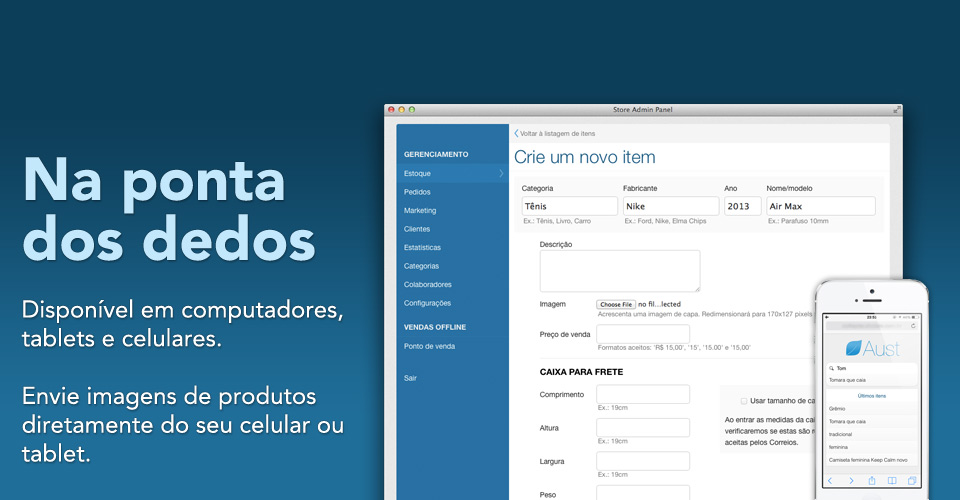
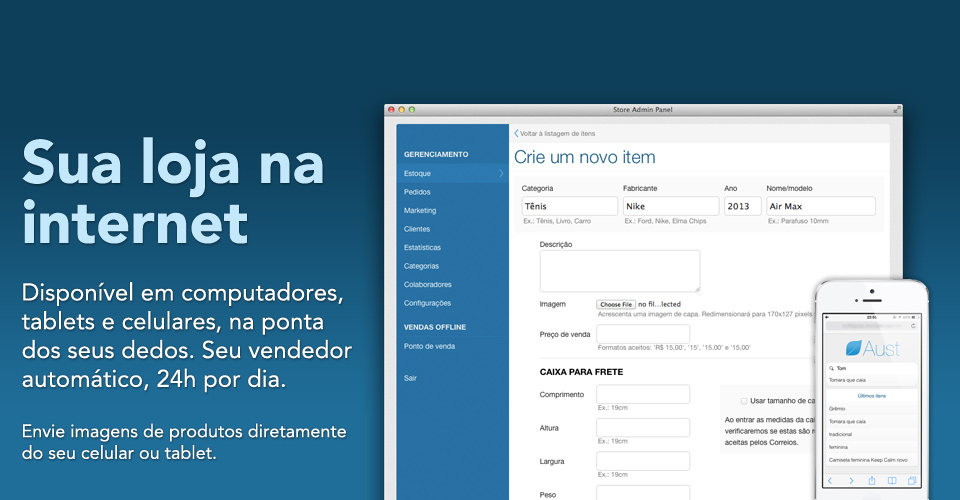
[49640099] Final version of the marketing page

Changed region(s): [[0.0, 0.57, 0.375, 0.93], [0.0, 0.27, 0.3438, 0.54]]

diff --git a/app/assets/stylesheets/marketing/style.sass b/app/assets/stylesheets/marketing/style.sass
@@ -13,6 +13,7 @@ body
   background: #efefef
   background: #1a7bb0
   background: #0A3C57
+  background: image-url('marketing/body_bg_top.jpg') repeat-x #f7f7f7
   color: #222
   font-size: 87%
   font-family: "Helvetica Neue", "Lucida Grande", "Lucida Sans", "Verdana", sans-serif
@@ -109,9 +110,9 @@ li
 
 .central_body
   width: 960px
-  box-shadow: 0px 0px 5px rgba(0, 0, 0, 0.2)
-  margin: 0 auto
-  background: red
+  padding-bottom: 5px
+  //box-shadow: 0px 0px 5px rgba(0, 0, 0, 0.2)
+  margin: 0 auto 0 auto
 
 #header
   width: 100%
@@ -135,7 +136,7 @@ li
     p
       font-size: 0.8em
       left: 18px
-      top: -1px
+      top: -2px
       position: relative
       color: #777
 
@@ -149,7 +150,7 @@ li
 
     li
       float: left
-      padding: 20px 0 0 0
+      padding: 14px 0 0 0
     a
       padding: 5px 12px
       margin: 0 5px
@@ -157,7 +158,7 @@ li
       font-size: 1.4em
       &:hover
         text-decoration: none
-        background: #fbfbfb
+        background: #f3f3f3
         border-radius: 50px
 
 #merchan
@@ -262,19 +263,32 @@ a.btn
 #main
   margin: 0 auto
   margin-bottom: 25px
-  padding-top: 15px
+  padding-top: 0
   width: 960px
   display: table
   background: white
 
   .main_container
-    margin: 10px
+    margin: 30px 0
+    width: 960px
     display: table
 
   .screenshot
+    width: 900px
     padding: 0 30px 0 30px
     img.admin
       width: 400px
+
+  .nfe
+    width: 900px
+    border-top: 1px solid #eee
+    padding: 30px 30px 0 30px
+    .image, .text
+      float: left
+    .image
+      width: 100px
+    .text
+      margin-top: 10px
 
   .features
     padding: 15px 10px
@@ -299,7 +313,41 @@ a.btn
         padding: 0 3px
         font-size: 1em
   .beta
+    width: 900px
+    border-top: 1px solid #eee
     padding: 30px
+    margin-bottom: 0
+    color: white
+    background: image-url("marketing/beta_bg.jpg") repeat-x #295e84
 
-    h3
+    h2
       font-weight: normal
+      color: white
+
+    div.email_field, div.submit
+      float: left
+
+    div.email_field
+      width: 615px
+      label
+        margin-top: 10px
+        font-size: 1.6em
+        width: 170px
+      input
+        height: 42px
+        width: 400px
+        margin: 0 0 0 8px
+        padding: 0 10px
+        font-size: 1.6em
+      .hint
+        margin: 0 0 0 185px
+        font-size: 0.8em
+        color: #ddd
+
+    input.button
+      background: image-url("marketing/beta_submit.png") no-repeat
+      height: 44px
+      width: 159px
+      border: 0
+      font-size: 1.8em
+      color: white

diff --git a/spec/acceptance/subdomain_redirections_acceptance_spec.rb b/spec/acceptance/subdomain_redirections_acceptance_spec.rb
@@ -3,42 +3,41 @@ require 'acceptance_spec_helper'
 
 feature "Store's front-page" do
   before do
-    @company = FactoryGirl.create(:company, handle: "company", domain: "petshop.com")
-    switch_to_main_domain
+    @company = FactoryGirl.create(:company, handle: "company")
   end
 
-  describe "using a explicit subdomain" do
-    context "Existing company" do
-      scenario "As a customer, I access a specific store" do
-        switch_to_subdomain("company")
-        visit root_path
-        page.should have_content(@company.name)
-      end
+  context "Existing company" do
+    scenario "As a customer, I access a specific store" do
+      switch_to_subdomain("company")
+      visit root_path
+      page.should have_content(@company.name)
+      current_path.should == "/"
     end
+  end
 
-    context "Inexistent company" do
+  context "Inexistent company" do
+    context "Inexistent subdomain" do
       scenario "As a customer, I'm redirected to the marketing page" do
         switch_to_subdomain("something")
         visit root_path
-        current_path.should == marketing_root_path(subdomain: false)
+        current_path.should == root_path(subdomain: false)
+      page.should have_selector ".marketing_page"
       end
     end
   end
 
-  describe "not entering a subdomain" do
-    it "goes to the marketing page" do
-      visit root_path(subdomain: false)
-      current_path.should == marketing_root_path(subdomain: false)
-    end
-  end
-
-  describe "entering the company's own domain" do
-    it "goes to the company page" do
-      Capybara.app_host = "http://petshop.com"
-      Capybara.default_host = "http://petshop.com"
+  context "Accessing the Marketing page manually" do
+    scenario "As a customer store.com, I go to the marketing page" do
       visit root_path(subdomain: false)
       current_path.should == root_path(subdomain: false)
-      page.should have_content(@company.name)
+      page.should have_selector ".marketing_page"
+    end
+
+    scenario "As a customer www.store.com, I go to the marketing page" do
+      switch_to_subdomain("www")
+      visit root_path
+      current_path.should == root_path(subdomain: "www")
+      page.should have_selector ".marketing_page"
     end
   end
 end

diff --git a/config/deploy/staging.rb b/config/deploy/staging.rb
@@ -3,7 +3,7 @@ require 'bundler/capistrano'
 
 set :deploy_to, "/var/rails/#{application}"
 set :rails_env, "staging"
-set :branch, "49640099_marketing_page"
+set :branch, "master"
 set :user, "deployer"
 
 default_run_options[:pty] = true

diff --git a/config/routes.rb b/config/routes.rb
@@ -171,6 +171,6 @@ Store::Application.routes.draw do
       resources :home, only: [:index]
 
     end
-    root :to => 'marketing/home#index', as: nil
+    root :to => 'marketing/home#index', as: :marketing_root
   end
 end
